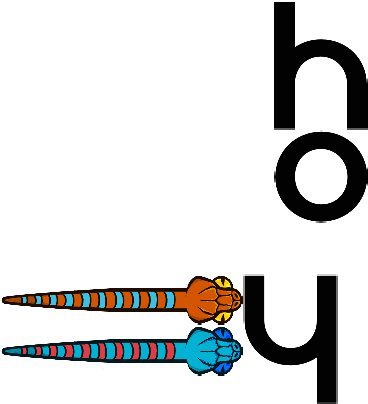
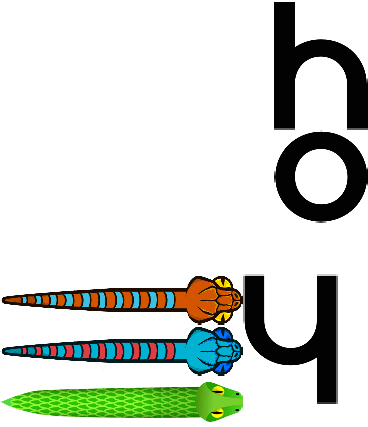
Updated snake!

diff --git a/src/app/App.js b/src/app/App.js
@@ -128,6 +128,10 @@ export default class App {
       this.update();
     });
 
+    this.bodies.showBodies(false);
+    this.updateRope();
+    this.update();
+
     this.onResize();
   }
 
@@ -136,7 +140,7 @@ export default class App {
       this.rope.destroy();
       this.rope = null;
     }
-    this.rope = new SimpleRope(Texture.from('snake2.png'), this.bodies.bodies);
+    this.rope = new SimpleRope(Texture.from('snake3.png'), this.bodies.bodies);
     this.app.stage.addChild(this.rope);
   }
 

diff --git a/src/app/appStore.js b/src/app/appStore.js
@@ -12,13 +12,13 @@ const onNumSegmentUpdate = new Signal();
 const onSegmentLengthUpdate = new Signal();
 const onEnablePixiRopeUpdate = new Signal();
 
-let _numSegments = 20;
+let _numSegments = 30;
 let _segmentLength = 10;
 let _circleRadius = 0.5;
 let _circleSpeed = 0.5;
 let _waveSpeed = 0.5;
 let _waveAmplitude = 0.5;
-let _enablePixiRope = false;
+let _enablePixiRope = true;
 let _enableDrawPath = false;
 
 export default {
